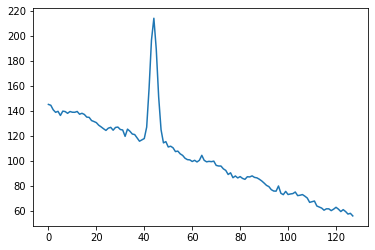
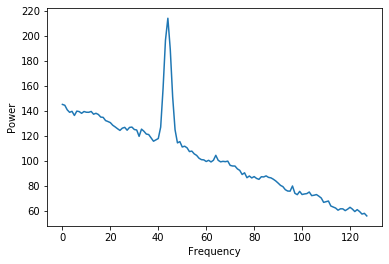
Added labels to readme images

Changed region(s): [[0.0, 0.0, 0.9973, 0.98], [0.264, 0.448, 0.2933, 0.476], [0.2347, 0.476, 0.264, 0.504]]

diff --git a/README.md b/README.md
@@ -46,20 +46,19 @@ showing the test code coverage.
 
 ## Signal to Noise Ratio (SNR) estimation
 
-Using the mean of the frecuencies over time as the
-<img src="https://render.githubusercontent.com/render/math?math=P_{signal}"> .
+First we need to get the signal, we assume that the mean value over time for each frequency is the signal, so we calculate it for each frequency <img src="https://render.githubusercontent.com/render/math?math=k \in K">:
 
-We calculate the mean for each frequency:
+<img src="https://render.githubusercontent.com/render/math?math=P_{signal}^k = \frac{1}{T} \displaystyle\sum_{t=0}^T x^k_t , \forall k \in K">
 
-<img src="https://render.githubusercontent.com/render/math?math=P_{signal}^k = \frac{1}{T} \displaystyle\sum_{t=0}^T x^k_t ">
+So the Power of the signal is <img src="https://render.githubusercontent.com/render/math?math=P_{signal}^k, \forall k \in K">
 
 Then we calculate the deviation from the mean
 
-<img src="https://render.githubusercontent.com/render/math?math={dev}_t^k = \left|x_t^k  - P_{signal}^k \right|, \forall t \in T">
+<img src="https://render.githubusercontent.com/render/math?math={dev}_t^k = \left|x_t^k  - P_{signal}^k \right|, \forall t \in T , \forall k \in K">
 
-The deviation will show the noise. Then we calculate the mean of the deviation and we'll get the <img src="https://render.githubusercontent.com/render/math?math=P_{noise}"> .
+The deviation we will have an estimate of the noise for each time. Then we calculate the mean of the deviation and we'll get the <img src="https://render.githubusercontent.com/render/math?math=P_{noise}"> .
 
-<img src="https://render.githubusercontent.com/render/math?math=P_{noise}^k = \frac{1}{T} \displaystyle\sum_{t=0}^T dev^k_t ">
+<img src="https://render.githubusercontent.com/render/math?math=P_{noise}^k = \frac{1}{T} \displaystyle\sum_{t=0}^T dev^k_t , \forall k \in K ">
 
 We calculate the SNR for each frequency
 
@@ -69,7 +68,7 @@ And get the max SNR as the estimate.
 
 <img src="https://render.githubusercontent.com/render/math?math=SNR=\max(SNR^k)">
 
-Example:
+### Example:
 
 The data and signal:
 
